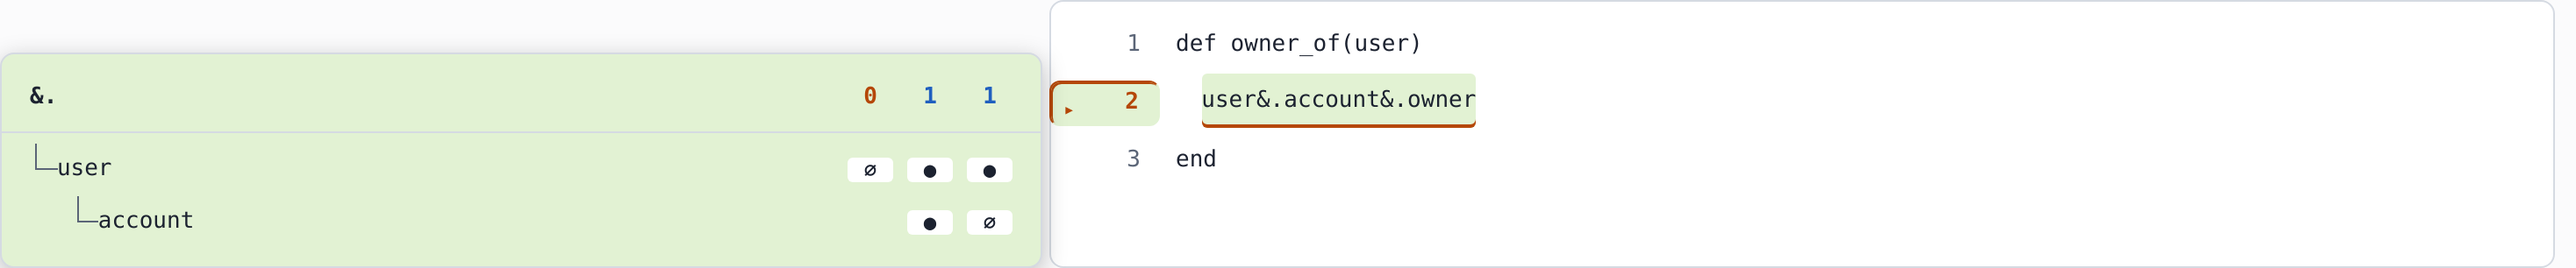
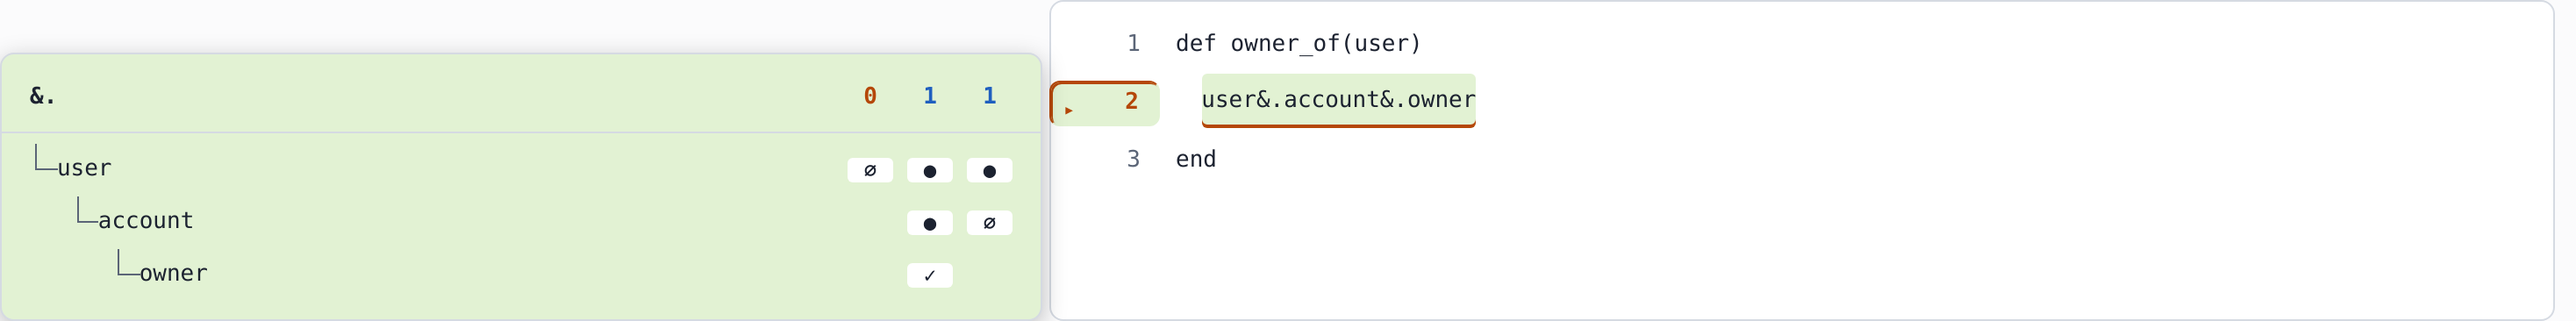
Show owner at the end of a &. chain
The Navigation popout for
user&.account&.owner showed no owner,
as owner is no leaf: only receivers
decide a &. path. It now has a row of
its own, ticked on each path that
called it. The HTML report also kept
only leaf rows, so it dropped owner.

The README says every answer false for
any?, not last answer false, as any?
stops at its first true.

diff --git a/lib/path_coverage/kinds/safe.rb b/lib/path_coverage/kinds/safe.rb
@@ -46,7 +46,8 @@ module PathCoverage
       # Its value in each column: false where a receiver was nil,
       # as the chain then gives nil, else its last leaf's.
       def self.value(_operator, operands)
-        columns = operands.map { |operand| operand[:cells] }.transpose
+        leaves = operands.reject { |operand| operand[:called] }
+        columns = leaves.map { |operand| operand[:cells] }.transpose
         columns.map do |column|
           column.include?(PRESENCE[1]) ? false : column.last
         end
@@ -103,15 +104,38 @@ module PathCoverage
       # Its leaves' nodes, each after the first showing only what
       # it adds to the one before, eg account after user.
       # A leading &. is left out, as the chain's own row shows it.
+      # Any of the chain after its last leaf follows, eg owner in
+      # user&.account&.owner, as a node of its own.
       def self.texted(source, condition, nodes)
         ranges = condition.operands
+        texted = with_added(source, ranges, nodes)
+        rest = shown(source, ranges.last.end...condition.extent.end)
+        rest.empty? ? texted : [*texted, called(rest, texted.last)]
+      end
+
+      # nodes, the nodes of a chain's leaves at ranges, each after
+      # the first showing only what it adds to the one before.
+      def self.with_added(source, ranges, nodes)
         nodes.each_with_index.map do |node, index|
           next node if index.zero?
 
           added = ranges[index - 1].end...ranges[index].end
-          text = source.byteslice(added).delete_prefix('&.')
-          node.merge(text:)
+          node.merge(text: shown(source, added))
         end
+      end
+
+      # The text of source at range, less any leading &.
+      def self.shown(source, range)
+        source.byteslice(range).delete_prefix('&.')
+      end
+
+      # The node of text, the end of a chain after its last
+      # leaf, eg owner: no leaf, as it decides no path, but marked
+      # called on each path where last, the last leaf, was not
+      # nil.
+      def self.called(text, last)
+        cells = last[:cells].map { |cell| cell == PRESENCE[0] }
+        { text:, called: true, cells: }
       end
 
       # The rows of its leaves, each under the one before, as each

diff --git a/test/kernel_test.rb b/test/kernel_test.rb
@@ -1610,4 +1610,40 @@ class KernelTest < Id58TestBase
     calls.each { |ids, c| Odds6rTS54.k(ids, c) }
     assert_output('') { report.call }
   end
+
+  test '6rTS55', %w(
+  | Example: user&.account&.owner, called with no user, and
+  | with a user whose account has an owner
+  | The popout shows the chain's rows as user, account, then
+  | owner, so they read as the code does.
+  | owner is ticked on the one path that called it.
+  ) do
+    dir = Dir.mktmpdir('6rTS55')
+    File.write("#{dir}/owner.rb", <<~RUBY)
+      module Owner6rTS55
+        def self.of(user) = user&.account&.owner
+      end
+    RUBY
+    exit_report = nil
+    on_exit = ->(&block) { exit_report = block }
+    PathCoverage.start(on_exit:) do
+      root dir
+      cover '*.rb'
+      coverage_dir dir
+      report :html
+    end
+    require "#{dir}/owner.rb"
+    account = Struct.new(:owner).new('kim')
+    users = [nil, Struct.new(:account).new(account)]
+    assert_equal([nil, 'kim'], users.map { Owner6rTS55.of(_1) })
+    exit_report.call
+
+    page = File.read("#{dir}/files/owner.rb.html")
+    tree = REXML::Document.new(page).elements["//*[@id='tree-2']"]
+    rows = tree.elements.to_a('.//*[@data-operand]')
+    texts = rows.map { text_of(_1.elements['*[@data-text]']) }
+    assert_equal %w(user account owner), texts
+    cells = rows.last.elements.to_a('*[@data-cell]')
+    assert_includes cells.map { text_of(_1) }, [0x2713].pack('U')
+  end
 end

diff --git a/lib/path_coverage/html_report.rb b/lib/path_coverage/html_report.rb
@@ -88,17 +88,26 @@ module PathCoverage
     # on it and on each of its operands: a leaf's from its byte
     # range, a condition's and an arm's from its extent, the
     # whole of it as written. Columns count characters, not
-    # bytes.
+    # bytes. A node past the condition's operands, eg owner at
+    # the end of user&.account&.owner, is kept as it is.
     def self.located(source, condition, tree)
       pairs = condition.operands.zip(tree[:operands])
       operands = pairs.map do |operand, node|
-        case operand
-        when Condition then located(source, operand, node)
-        when Arm then located_arm(source, operand, node)
-        else node.merge(at: at(source, operand))
-        end
+        located_operand(source, operand, node)
       end
-      tree.merge(at: at(source, condition.extent), operands:)
+      rest = tree[:operands].drop(pairs.size)
+      tree.merge(at: at(source, condition.extent),
+                 operands: operands + rest)
+    end
+
+    # SPIKE: the node of operand with its at:, as located gives
+    # a condition's, an arm's or a leaf's.
+    def self.located_operand(source, operand, node)
+      case operand
+      when Condition then located(source, operand, node)
+      when Arm then located_arm(source, operand, node)
+      else node.merge(at: at(source, operand))
+      end
     end
 
     # An arm's node with its at:, nil for an arm with no

diff --git a/test/site_tree_test.rb b/test/site_tree_test.rb
@@ -320,4 +320,25 @@ class SiteTreeTest < Id58TestBase
     inner, leaf = tree[:operands].first[:operands]
     assert_equal ['( ||', ').any?'], [inner[:label], leaf[:text]]
   end
+
+  test 'EuNs85', %w(
+  | Example: user&.account&.owner as a site of its own
+  | Its leaves are its receivers, user and account, as only
+  | they decide its path.
+  | The tree shows owner too, after account, so it reads as
+  | the code does.
+  | owner is called on each path where no receiver was nil.
+  ) do
+    source = "def owner_of(user) = user&.account&.owner\n"
+    site = PathCoverage::Manifest.sites(source, 'k.rb').values.first
+    paths = PathCoverage::SitePaths.possible(site).map do |path|
+      { path:, count: 0 }
+    end
+    tree = PathCoverage::SiteTree.of(source, site, paths)
+    texts = tree[:operands].map { _1[:text] }
+    owner = tree[:operands].last
+    assert_equal %w(user account owner), texts
+    assert_equal [true, [true, false, false]],
+                 [owner[:called], owner[:cells]]
+  end
 end

diff --git a/lib/path_coverage/html_tree.rb b/lib/path_coverage/html_tree.rb
@@ -147,12 +147,16 @@ module PathCoverage
 
     # One operand's row: its branch, text, and its outcome on
     # each path.
+    # An operand that is only called, eg owner at the end of
+    # user&.account&.owner, has a tick on each path that called
+    # it instead.
     def self.operand_row(operand, branch)
       text = CGI.escapeHTML(operand[:text].to_s)
       lead = branch_cell(branch) +
              %(<span class="text" data-text="">#{text}</span>)
       attrs = %( data-operand=""#{at(operand)})
-      row(attrs, lead, cells(operand[:cells]))
+      names = operand[:called] ? TAKEN : OUTCOMES
+      row(attrs, lead, cells(operand[:cells], names))
     end
 
     # The cell drawing a row's branch from its operator.

diff --git a/test/html_tree_test.rb b/test/html_tree_test.rb
@@ -1,0 +1,20 @@
+require_relative 'test_helper'
+require 'path_coverage/html_tree'
+require 'rexml/document'
+
+class HtmlTreeTest < Id58TestBase
+  test 'c4e7a9', %w(
+  | Example: owner at the end of user&.account&.owner
+  | owner is no leaf, as it decides no path, so it has no true
+  | or false.
+  | Its row ticks each path that called it, and leaves the
+  | others blank.
+  ) do
+    owner = { text: 'owner', called: true, cells: [true, false] }
+    row = PathCoverage::HtmlTree.operand_row(owner, '└─ ')
+    html = REXML::Document.new(row)
+    cells = html.elements.to_a('//*[@data-cell]').map { text_of(_1) }
+    tick = [0x2713].pack('U')
+    assert_equal [tick, ''], cells
+  end
+end

diff --git a/README.md b/README.md
@@ -63,7 +63,7 @@ Each popout has two sections:
 - `T` the expression was true.
 - `F` the expression was false.
 
-So in this example, there was no test which exercised the path where `name.size > 2` was `true`, and 
+In this example, there was no test which exercised the path where `name.size > 2` was `true`, and 
 `name.ascii_only?` was `false`.
 
 ### Unreachable: blank 
@@ -91,7 +91,7 @@ second, `paid` true, took `then`.
 - `∅` the receiver was nil, so `&.` skipped the rest of the chain.
 - `●` the receiver was not nil, so `&.` made the call.
 
-So in this example, there was no test which exercised the path where
+In this example, there was no test which exercised the path where
 `user` was nil.
 
 ### Count: `0` `1` `*`
@@ -102,8 +102,8 @@ So in this example, there was no test which exercised the path where
 - `1` the block was called with one item.
 - `*` the block was called with two or more items.
 
-So in this example, there was no test which exercised the path where
-the block was called with two or more items and its last answer was
+In this example, there was no test which exercised the path where
+the block was called with two or more items and every answer was
 `false`.
 
 ### Both: `TF`
@@ -114,7 +114,7 @@ the block was called with two or more items and its last answer was
 - `F` every answer of the block was false.
 - `TF` the block's answers were both true and false.
 
-So in this example, there was no test which exercised the path where
+In this example, there was no test which exercised the path where
 the block was called with two or more items and every answer was
 `false`.
 
